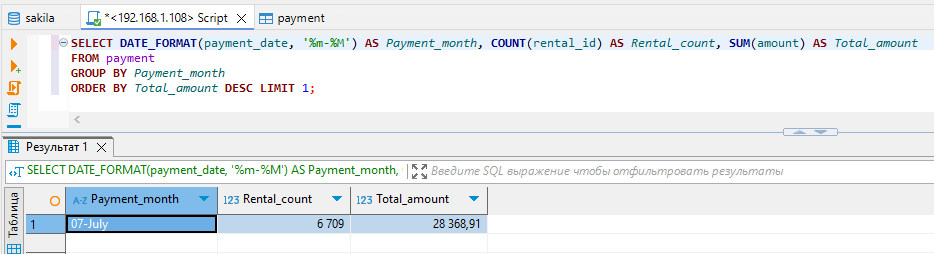
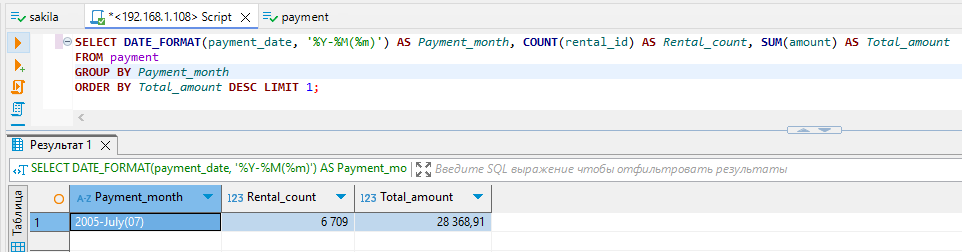
readme update

Changed region(s): [[0.0, 0.5, 1.0, 1.0], [0.0, 0.0, 0.9936, 0.4722]]

diff --git a/README.md b/README.md
@@ -53,7 +53,7 @@ WHERE length > (SELECT AVG(length) FROM film);
 ### Решение3
 
 ```
-SELECT DATE_FORMAT(payment_date, '%m-%M') AS Payment_month, COUNT(rental_id) AS Rental_count, SUM(amount) AS Total_amount 
+SELECT DATE_FORMAT(payment_date, '%Y-%M(%m)') AS Payment_month, COUNT(rental_id) AS Rental_count, SUM(amount) AS Total_amount 
 FROM payment 
 GROUP BY Payment_month 
 ORDER BY Total_amount DESC LIMIT 1;
